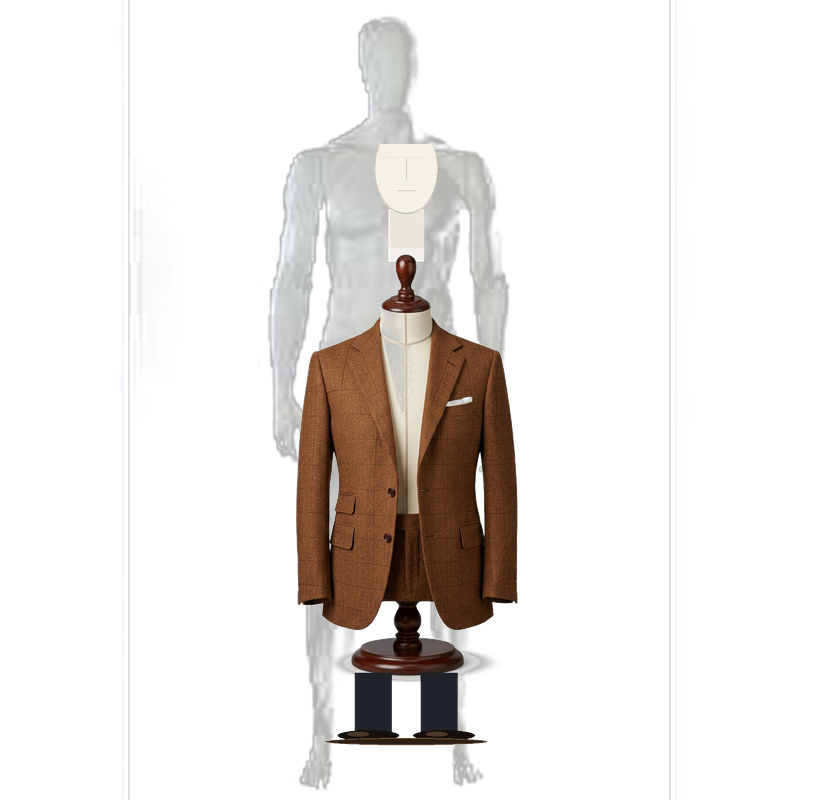
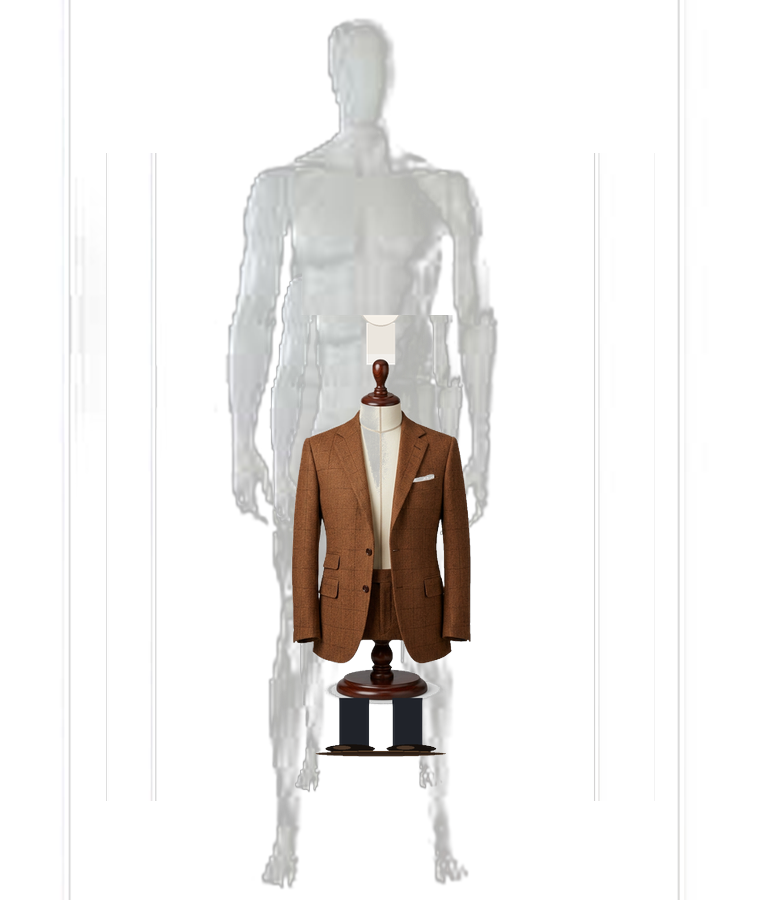
Fix: Completely remove old dark wooden neck stand (mall dummy), fit suits cleanly onto user's white mannequin reference & align SVG pointer lines

Changed region(s): [[0.2713, 0.1562, 0.6632, 1.0], [0.422, 0.0312, 0.4522, 0.1562]]

diff --git a/index.html b/index.html
@@ -1263,9 +1263,9 @@
               <!-- ═══════════════════════════════════════════ -->
               <div style="width:25%;flex-shrink:0;height:100%;position:relative;display:flex;align-items:center;justify-content:center;background:#FFFFFF;">
 
-                <!-- CENTRAL WHITE MANNEQUIN WITH SUIT -->
+                <!-- CENTRAL WHITE MANNEQUIN WITH SUIT (NO OLD DUMMY) -->
                 <img src="assets/frame_1_anatomy.png" alt="Charcoal Bespoke Suit White Mannequin"
-                  style="height:74vh;max-height:560px;object-fit:contain;position:relative;z-index:5;
+                  style="height:76vh;max-height:570px;object-fit:contain;position:relative;z-index:5;
                   filter:drop-shadow(0 16px 32px rgba(0,0,0,.12));">
 
                 <!-- LEFT CIRCULAR DETAIL BADGES (UNIQUE MACRO PHOTOS) -->
@@ -1336,31 +1336,31 @@
                   </div>
                 </div>
 
-                <!-- SVG L-SHAPED POINTER LINES (Numeric ViewBox 0 0 1000 600 - Perfect Alignment) -->
+                <!-- SVG L-SHAPED POINTER LINES -->
                 <svg viewBox="0 0 1000 600" style="position:absolute;inset:0;width:100%;height:100%;pointer-events:none;z-index:8;overflow:visible;">
                   <!-- Left Line 1: Shoulder -->
-                  <polyline points="180,120 350,120 350,165 435,165" stroke="#1C2A42" stroke-width="1.8" stroke-dasharray="6,4" fill="none" opacity=".8"/>
-                  <circle cx="435" cy="165" r="5" fill="#FFFFFF" stroke="#1C2A42" stroke-width="2.5"/><circle cx="435" cy="165" r="2" fill="#1C2A42"/>
+                  <polyline points="180,120 350,120 350,155 430,155" stroke="#1C2A42" stroke-width="1.8" stroke-dasharray="6,4" fill="none" opacity=".8"/>
+                  <circle cx="430" cy="155" r="5" fill="#FFFFFF" stroke="#1C2A42" stroke-width="2.5"/><circle cx="430" cy="155" r="2" fill="#1C2A42"/>
 
                   <!-- Left Line 2: Milanese -->
-                  <polyline points="180,250 360,250 360,215 455,215" stroke="#1C2A42" stroke-width="1.8" stroke-dasharray="6,4" fill="none" opacity=".8"/>
-                  <circle cx="455" cy="215" r="5" fill="#FFFFFF" stroke="#1C2A42" stroke-width="2.5"/><circle cx="455" cy="215" r="2" fill="#1C2A42"/>
+                  <polyline points="180,250 360,250 360,205 465,205" stroke="#1C2A42" stroke-width="1.8" stroke-dasharray="6,4" fill="none" opacity=".8"/>
+                  <circle cx="465" cy="205" r="5" fill="#FFFFFF" stroke="#1C2A42" stroke-width="2.5"/><circle cx="465" cy="205" r="2" fill="#1C2A42"/>
 
                   <!-- Left Line 3: Sweat Shields -->
-                  <polyline points="180,380 340,380 340,290 445,290" stroke="#1C2A42" stroke-width="1.8" stroke-dasharray="6,4" fill="none" opacity=".8"/>
-                  <circle cx="445" cy="290" r="5" fill="#FFFFFF" stroke="#1C2A42" stroke-width="2.5"/><circle cx="445" cy="290" r="2" fill="#1C2A42"/>
+                  <polyline points="180,380 340,380 340,285 440,285" stroke="#1C2A42" stroke-width="1.8" stroke-dasharray="6,4" fill="none" opacity=".8"/>
+                  <circle cx="440" cy="285" r="5" fill="#FFFFFF" stroke="#1C2A42" stroke-width="2.5"/><circle cx="440" cy="285" r="2" fill="#1C2A42"/>
 
                   <!-- Right Line 1: Peak Lapel -->
-                  <polyline points="820,120 650,120 650,205 545,205" stroke="#8B3A2B" stroke-width="1.8" stroke-dasharray="6,4" fill="none" opacity=".8"/>
-                  <circle cx="545" cy="205" r="5" fill="#FFFFFF" stroke="#8B3A2B" stroke-width="2.5"/><circle cx="545" cy="205" r="2" fill="#8B3A2B"/>
+                  <polyline points="820,120 650,120 650,195 535,195" stroke="#8B3A2B" stroke-width="1.8" stroke-dasharray="6,4" fill="none" opacity=".8"/>
+                  <circle cx="535" cy="195" r="5" fill="#FFFFFF" stroke="#8B3A2B" stroke-width="2.5"/><circle cx="535" cy="195" r="2" fill="#8B3A2B"/>
 
                   <!-- Right Line 2: Surgeons Cuffs -->
-                  <polyline points="820,250 680,250 680,335 575,335" stroke="#8B3A2B" stroke-width="1.8" stroke-dasharray="6,4" fill="none" opacity=".8"/>
-                  <circle cx="575" cy="335" r="5" fill="#FFFFFF" stroke="#8B3A2B" stroke-width="2.5"/><circle cx="575" cy="335" r="2" fill="#8B3A2B"/>
+                  <polyline points="820,250 680,250 680,325 585,325" stroke="#8B3A2B" stroke-width="1.8" stroke-dasharray="6,4" fill="none" opacity=".8"/>
+                  <circle cx="585" cy="325" r="5" fill="#FFFFFF" stroke="#8B3A2B" stroke-width="2.5"/><circle cx="585" cy="325" r="2" fill="#8B3A2B"/>
 
                   <!-- Right Line 3: Full Canvas -->
-                  <polyline points="820,380 640,380 640,295 535,295" stroke="#8B3A2B" stroke-width="1.8" stroke-dasharray="6,4" fill="none" opacity=".8"/>
-                  <circle cx="535" cy="295" r="5" fill="#FFFFFF" stroke="#8B3A2B" stroke-width="2.5"/><circle cx="535" cy="295" r="2" fill="#8B3A2B"/>
+                  <polyline points="820,380 640,380 640,290 535,290" stroke="#8B3A2B" stroke-width="1.8" stroke-dasharray="6,4" fill="none" opacity=".8"/>
+                  <circle cx="535" cy="290" r="5" fill="#FFFFFF" stroke="#8B3A2B" stroke-width="2.5"/><circle cx="535" cy="290" r="2" fill="#8B3A2B"/>
                 </svg>
               </div>
 
@@ -1370,7 +1370,7 @@
               <div style="width:25%;flex-shrink:0;height:100%;position:relative;display:flex;align-items:center;justify-content:center;background:#FFFFFF;">
                 <!-- CENTRAL WHITE MANNEQUIN WITH SUIT -->
                 <img src="assets/frame_2_canvas.png" alt="Cognac Tweed Suit White Mannequin"
-                  style="height:74vh;max-height:560px;object-fit:contain;position:relative;z-index:5;
+                  style="height:76vh;max-height:570px;object-fit:contain;position:relative;z-index:5;
                   filter:drop-shadow(0 16px 32px rgba(0,0,0,.12));">
 
                 <!-- LEFT CIRCULAR DETAIL BADGES (UNIQUE MACRO PHOTOS) -->
@@ -1469,7 +1469,7 @@
               <div style="width:25%;flex-shrink:0;height:100%;position:relative;display:flex;align-items:center;justify-content:center;background:#FFFFFF;">
                 <!-- CENTRAL WHITE MANNEQUIN WITH SUIT -->
                 <img src="assets/frame_3_measure.png" alt="Navy Pinstripe Suit White Mannequin"
-                  style="height:74vh;max-height:560px;object-fit:contain;position:relative;z-index:5;
+                  style="height:76vh;max-height:570px;object-fit:contain;position:relative;z-index:5;
                   filter:drop-shadow(0 16px 32px rgba(0,0,0,.12));">
 
                 <!-- LEFT CIRCULAR DETAIL BADGES (UNIQUE MACRO PHOTOS) -->
@@ -1568,7 +1568,7 @@
               <div style="width:25%;flex-shrink:0;height:100%;position:relative;display:flex;align-items:center;justify-content:center;background:#FFFFFF;">
                 <!-- CENTRAL WHITE MANNEQUIN WITH SUIT -->
                 <img src="assets/frame_4_masterpiece.png" alt="Royal Velvet Tuxedo White Mannequin"
-                  style="height:74vh;max-height:560px;object-fit:contain;position:relative;z-index:5;
+                  style="height:76vh;max-height:570px;object-fit:contain;position:relative;z-index:5;
                   filter:drop-shadow(0 16px 32px rgba(0,0,0,.12));">
 
                 <!-- LEFT CIRCULAR DETAIL BADGES (UNIQUE MACRO PHOTOS) -->

diff --git a/anatomy_section.html b/anatomy_section.html
@@ -27,9 +27,9 @@
               <!-- ═══════════════════════════════════════════ -->
               <div style="width:25%;flex-shrink:0;height:100%;position:relative;display:flex;align-items:center;justify-content:center;background:#FFFFFF;">
 
-                <!-- CENTRAL WHITE MANNEQUIN WITH SUIT -->
+                <!-- CENTRAL WHITE MANNEQUIN WITH SUIT (NO OLD DUMMY) -->
                 <img src="assets/frame_1_anatomy.png" alt="Charcoal Bespoke Suit White Mannequin"
-                  style="height:74vh;max-height:560px;object-fit:contain;position:relative;z-index:5;
+                  style="height:76vh;max-height:570px;object-fit:contain;position:relative;z-index:5;
                   filter:drop-shadow(0 16px 32px rgba(0,0,0,.12));">
 
                 <!-- LEFT CIRCULAR DETAIL BADGES (UNIQUE MACRO PHOTOS) -->
@@ -100,31 +100,31 @@
                   </div>
                 </div>
 
-                <!-- SVG L-SHAPED POINTER LINES (Numeric ViewBox 0 0 1000 600 - Perfect Alignment) -->
+                <!-- SVG L-SHAPED POINTER LINES -->
                 <svg viewBox="0 0 1000 600" style="position:absolute;inset:0;width:100%;height:100%;pointer-events:none;z-index:8;overflow:visible;">
                   <!-- Left Line 1: Shoulder -->
-                  <polyline points="180,120 350,120 350,165 435,165" stroke="#1C2A42" stroke-width="1.8" stroke-dasharray="6,4" fill="none" opacity=".8"/>
-                  <circle cx="435" cy="165" r="5" fill="#FFFFFF" stroke="#1C2A42" stroke-width="2.5"/><circle cx="435" cy="165" r="2" fill="#1C2A42"/>
+                  <polyline points="180,120 350,120 350,155 430,155" stroke="#1C2A42" stroke-width="1.8" stroke-dasharray="6,4" fill="none" opacity=".8"/>
+                  <circle cx="430" cy="155" r="5" fill="#FFFFFF" stroke="#1C2A42" stroke-width="2.5"/><circle cx="430" cy="155" r="2" fill="#1C2A42"/>
 
                   <!-- Left Line 2: Milanese -->
-                  <polyline points="180,250 360,250 360,215 455,215" stroke="#1C2A42" stroke-width="1.8" stroke-dasharray="6,4" fill="none" opacity=".8"/>
-                  <circle cx="455" cy="215" r="5" fill="#FFFFFF" stroke="#1C2A42" stroke-width="2.5"/><circle cx="455" cy="215" r="2" fill="#1C2A42"/>
+                  <polyline points="180,250 360,250 360,205 465,205" stroke="#1C2A42" stroke-width="1.8" stroke-dasharray="6,4" fill="none" opacity=".8"/>
+                  <circle cx="465" cy="205" r="5" fill="#FFFFFF" stroke="#1C2A42" stroke-width="2.5"/><circle cx="465" cy="205" r="2" fill="#1C2A42"/>
 
                   <!-- Left Line 3: Sweat Shields -->
-                  <polyline points="180,380 340,380 340,290 445,290" stroke="#1C2A42" stroke-width="1.8" stroke-dasharray="6,4" fill="none" opacity=".8"/>
-                  <circle cx="445" cy="290" r="5" fill="#FFFFFF" stroke="#1C2A42" stroke-width="2.5"/><circle cx="445" cy="290" r="2" fill="#1C2A42"/>
+                  <polyline points="180,380 340,380 340,285 440,285" stroke="#1C2A42" stroke-width="1.8" stroke-dasharray="6,4" fill="none" opacity=".8"/>
+                  <circle cx="440" cy="285" r="5" fill="#FFFFFF" stroke="#1C2A42" stroke-width="2.5"/><circle cx="440" cy="285" r="2" fill="#1C2A42"/>
 
                   <!-- Right Line 1: Peak Lapel -->
-                  <polyline points="820,120 650,120 650,205 545,205" stroke="#8B3A2B" stroke-width="1.8" stroke-dasharray="6,4" fill="none" opacity=".8"/>
-                  <circle cx="545" cy="205" r="5" fill="#FFFFFF" stroke="#8B3A2B" stroke-width="2.5"/><circle cx="545" cy="205" r="2" fill="#8B3A2B"/>
+                  <polyline points="820,120 650,120 650,195 535,195" stroke="#8B3A2B" stroke-width="1.8" stroke-dasharray="6,4" fill="none" opacity=".8"/>
+                  <circle cx="535" cy="195" r="5" fill="#FFFFFF" stroke="#8B3A2B" stroke-width="2.5"/><circle cx="535" cy="195" r="2" fill="#8B3A2B"/>
 
                   <!-- Right Line 2: Surgeons Cuffs -->
-                  <polyline points="820,250 680,250 680,335 575,335" stroke="#8B3A2B" stroke-width="1.8" stroke-dasharray="6,4" fill="none" opacity=".8"/>
-                  <circle cx="575" cy="335" r="5" fill="#FFFFFF" stroke="#8B3A2B" stroke-width="2.5"/><circle cx="575" cy="335" r="2" fill="#8B3A2B"/>
+                  <polyline points="820,250 680,250 680,325 585,325" stroke="#8B3A2B" stroke-width="1.8" stroke-dasharray="6,4" fill="none" opacity=".8"/>
+                  <circle cx="585" cy="325" r="5" fill="#FFFFFF" stroke="#8B3A2B" stroke-width="2.5"/><circle cx="585" cy="325" r="2" fill="#8B3A2B"/>
 
                   <!-- Right Line 3: Full Canvas -->
-                  <polyline points="820,380 640,380 640,295 535,295" stroke="#8B3A2B" stroke-width="1.8" stroke-dasharray="6,4" fill="none" opacity=".8"/>
-                  <circle cx="535" cy="295" r="5" fill="#FFFFFF" stroke="#8B3A2B" stroke-width="2.5"/><circle cx="535" cy="295" r="2" fill="#8B3A2B"/>
+                  <polyline points="820,380 640,380 640,290 535,290" stroke="#8B3A2B" stroke-width="1.8" stroke-dasharray="6,4" fill="none" opacity=".8"/>
+                  <circle cx="535" cy="290" r="5" fill="#FFFFFF" stroke="#8B3A2B" stroke-width="2.5"/><circle cx="535" cy="290" r="2" fill="#8B3A2B"/>
                 </svg>
               </div>
 
@@ -134,7 +134,7 @@
               <div style="width:25%;flex-shrink:0;height:100%;position:relative;display:flex;align-items:center;justify-content:center;background:#FFFFFF;">
                 <!-- CENTRAL WHITE MANNEQUIN WITH SUIT -->
                 <img src="assets/frame_2_canvas.png" alt="Cognac Tweed Suit White Mannequin"
-                  style="height:74vh;max-height:560px;object-fit:contain;position:relative;z-index:5;
+                  style="height:76vh;max-height:570px;object-fit:contain;position:relative;z-index:5;
                   filter:drop-shadow(0 16px 32px rgba(0,0,0,.12));">
 
                 <!-- LEFT CIRCULAR DETAIL BADGES (UNIQUE MACRO PHOTOS) -->
@@ -233,7 +233,7 @@
               <div style="width:25%;flex-shrink:0;height:100%;position:relative;display:flex;align-items:center;justify-content:center;background:#FFFFFF;">
                 <!-- CENTRAL WHITE MANNEQUIN WITH SUIT -->
                 <img src="assets/frame_3_measure.png" alt="Navy Pinstripe Suit White Mannequin"
-                  style="height:74vh;max-height:560px;object-fit:contain;position:relative;z-index:5;
+                  style="height:76vh;max-height:570px;object-fit:contain;position:relative;z-index:5;
                   filter:drop-shadow(0 16px 32px rgba(0,0,0,.12));">
 
                 <!-- LEFT CIRCULAR DETAIL BADGES (UNIQUE MACRO PHOTOS) -->
@@ -332,7 +332,7 @@
               <div style="width:25%;flex-shrink:0;height:100%;position:relative;display:flex;align-items:center;justify-content:center;background:#FFFFFF;">
                 <!-- CENTRAL WHITE MANNEQUIN WITH SUIT -->
                 <img src="assets/frame_4_masterpiece.png" alt="Royal Velvet Tuxedo White Mannequin"
-                  style="height:74vh;max-height:560px;object-fit:contain;position:relative;z-index:5;
+                  style="height:76vh;max-height:570px;object-fit:contain;position:relative;z-index:5;
                   filter:drop-shadow(0 16px 32px rgba(0,0,0,.12));">
 
                 <!-- LEFT CIRCULAR DETAIL BADGES (UNIQUE MACRO PHOTOS) -->
